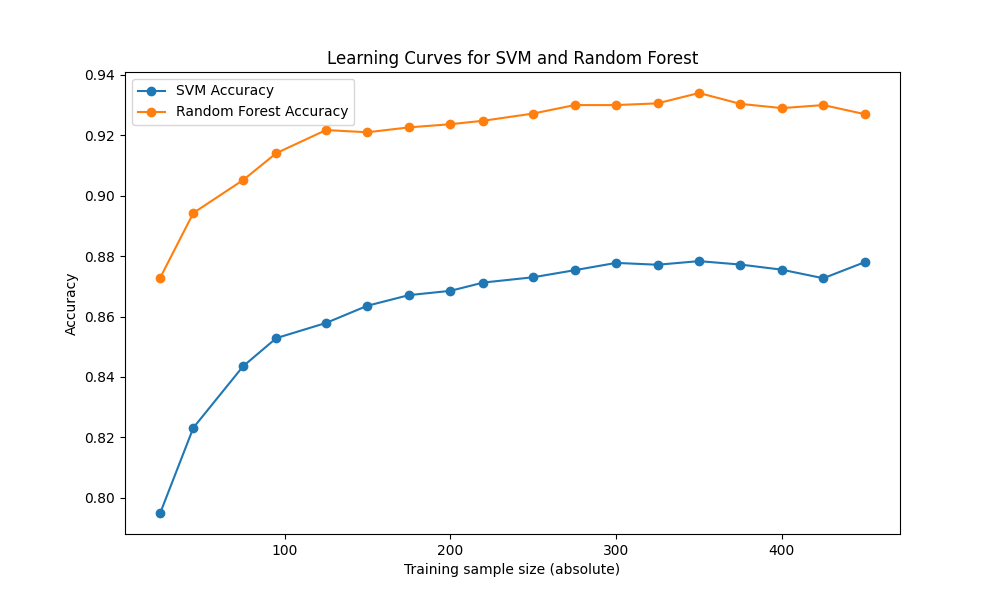
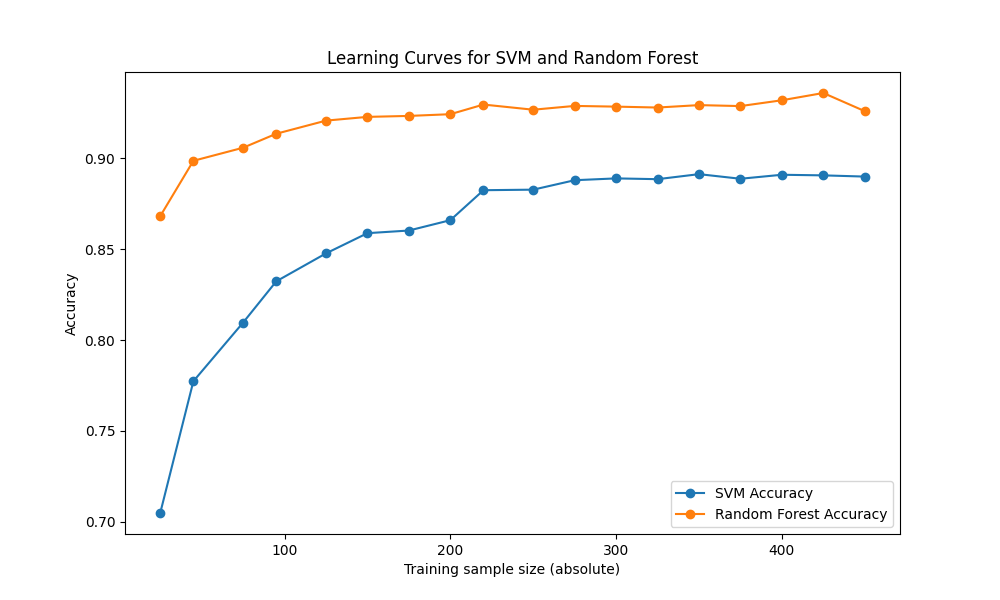
update outputs

diff --git a/code/main.py b/code/main.py
@@ -32,12 +32,12 @@ features_to_use = select_features_based_on_J_score(train_samples, features, desi
 
 svm_params, rf_params = get_model_hyperparameters(features_to_use, train_samples, test_samples)
 
-create_learning_curves(features_to_use, svm_params, rf_params, num_random_samples=20)
+create_learning_curves(features_to_use, svm_params, rf_params, num_random_samples=10)
 
 final_test_size = 0.4
 x_train, y_train, x_test, y_test = get_data_for_sklearn(*get_data(test_size=final_test_size), features_to_use)
-final_rf_model = get_rf_model(x_train, y_train, n_estimators=rf_params['n_estimators'], max_depth=rf_params['max_depth'])
-final_svm_model = get_svm_model(x_train, y_train, kernel=svm_params['kernel'], C=svm_params['C'])
+final_rf_model = get_rf_model(x_train, y_train, n_estimators=rf_params['n_estimators'], max_depth=rf_params['max_depth'], min_samples_split=rf_params['min_samples_split'], min_samples_leaf=rf_params['min_samples_leaf'])
+final_svm_model = get_svm_model(x_train, y_train, kernel=svm_params['kernel'], C=svm_params['C'], gamma=svm_params['gamma'], degree=svm_params['degree'])
 
 def plot_confusion_matrix(model, title: str):
     predictions = model.predict(x_test)

diff --git a/README.md b/README.md
@@ -2,8 +2,12 @@
 
 Assignment 2 for the course GEO5017: Machine Learning for the Built Environment at TU Delft
 
-To run this code:
+## To run this code:
 
 1. make sure to add the data under "/pointclouds-500/" (data is expected to be 500 .xyz files named by index in buckets of 100 by label - in the order "building", "car", "fence", "pole", "tree")
 2. install the dependencies using `pip install -r requirements.txt`
 3. run "/code/main.py"
+
+### Notes:
+
+The code currently takes quite a while to run, even on capable hardware. This is due to the `create_learning_curves` function, which estimates a total of 200 SVM and 200 RF models. You can reduce this by setting num_random_samples to 1, which will lead to 20 + 20 models being estimated, but a potentially less accurate learning curve.
